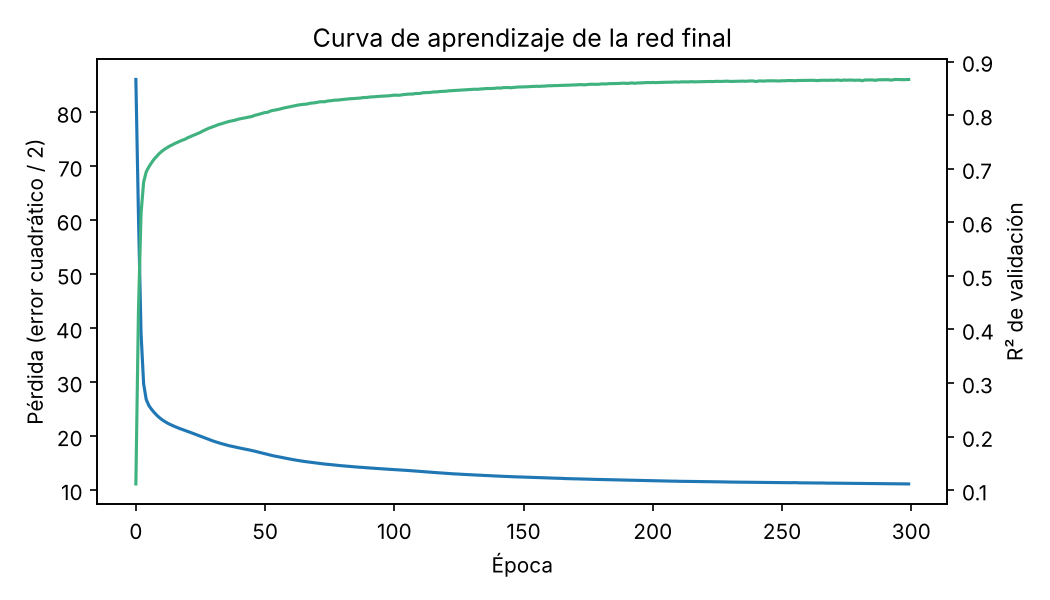
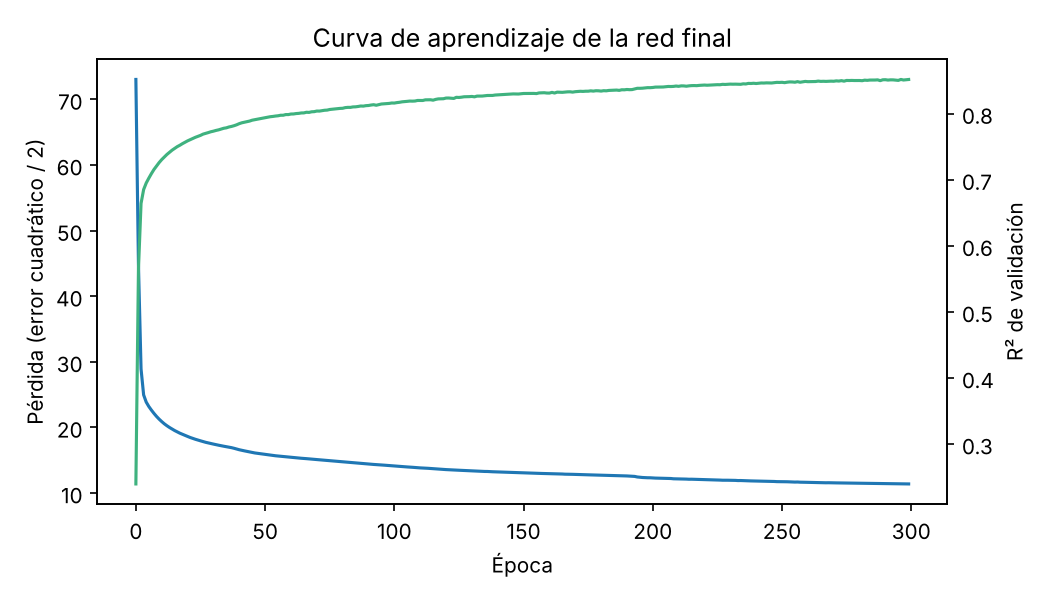
Popup de la encuesta de satisfacción y red reentrenada con los recorridos del 17 de noviembre

diff --git a/static/css/llegada.css b/static/css/llegada.css
@@ -188,3 +188,25 @@ aside > *:nth-child(2) { animation-delay: .06s; } aside > *:nth-child(3) { anima
   color: #e5a23b; border: 1px solid color-mix(in srgb, #e5a23b 60%, transparent); }
 .route-tag.corta { color: #4c8dff; border-color: color-mix(in srgb, #4c8dff 60%, transparent); }
 .route-tag.gap { color: var(--muted, #9aa6ba); border-color: color-mix(in srgb, #9aa6ba 50%, transparent); }
+
+/* Invitación a la encuesta de satisfacción (09_encuesta.js): tarjeta abajo a la derecha, no bloquea la página */
+.survey {
+  position: fixed; z-index: 1100; right: 20px; bottom: 20px; width: min(360px, calc(100vw - 32px));
+  display: flex; gap: 12px; padding: 16px 16px 14px; border-radius: var(--r);
+  background: var(--surface); border: 1px solid color-mix(in srgb, var(--accent) 45%, var(--line));
+  box-shadow: 0 14px 40px rgba(0,0,0,.45); color: var(--text);
+  opacity: 0; transform: translateY(16px); transition: opacity .3s, transform .3s;
+}
+.survey.show { opacity: 1; transform: none; }
+.survey .sv-ico { flex-shrink: 0; width: 36px; height: 36px; border-radius: 50%; display: grid; place-items: center;
+  background: color-mix(in srgb, #ffd166 18%, transparent); color: #ffd166; }
+.survey .sv-ico svg { width: 20px; height: 20px; }
+.survey .sv-body b { display: block; font-size: 15px; margin-bottom: 2px; padding-right: 18px; }
+.survey .sv-body span { display: block; font-size: 13px; color: var(--muted); }
+.survey .sv-actions { display: flex; gap: 8px; margin-top: 12px; flex-wrap: wrap; }
+.survey .sv-actions .btn { min-height: 38px; display: inline-flex; align-items: center; text-decoration: none; }
+.survey .sv-x { position: absolute; top: 6px; right: 8px; width: 32px; height: 32px; border: 0; background: none;
+  color: var(--muted); font-size: 22px; line-height: 1; border-radius: 8px; }
+.survey .sv-x:hover { color: var(--text); background: var(--raise); }
+@media (max-width: 575px) { .survey { right: 16px; left: 16px; bottom: 16px; width: auto; } }
+@media (prefers-reduced-motion: reduce) { .survey { transition: none; } }

diff --git a/static/js/09_encuesta.js b/static/js/09_encuesta.js
@@ -1,0 +1,32 @@
+// OnRoute · Invitación a la encuesta de satisfacción (Microsoft Forms)
+// Aparece abajo, sin tapar la página, unos segundos después de abrirla.
+// "Responder" abre la encuesta en otra pestaña y no vuelve a salir en este navegador.
+// "Ahora no" la esconde por un día.
+const SURVEY_URL = "https://forms.cloud.microsoft/Pages/ResponsePage.aspx?id=ebawul-96E-1Fsa4sxfHgrqs7XJntkNJq-1I-m7foctUN0ZLTlBNWTc0NUpHWk1FTjFINzdNNjBQRi4u";
+const SURVEY_DELAY_MS = 20000;            // espera 20 s para no interrumpir apenas entra
+const SURVEY_SNOOZE_MS = 24 * 3600 * 1000; // "Ahora no" = vuelve a preguntar mañana
+
+(function () {
+  const box = $("survey");
+  if (!box) return;
+  let state = null;
+  try { state = JSON.parse(localStorage.getItem("onrouteSurvey") || "null"); } catch (e) {}
+  if (state && (state.done || Date.now() - state.later < SURVEY_SNOOZE_MS)) return;
+
+  const save = (v) => { try { localStorage.setItem("onrouteSurvey", JSON.stringify(v)); } catch (e) {} };
+  const hide = () => { box.classList.remove("show"); setTimeout(() => box.classList.add("d-none"), 300); };
+
+  $("svOpen").href = SURVEY_URL;
+  $("svOpen").addEventListener("click", () => { save({ done: true }); hide(); });
+  $("svLater").addEventListener("click", () => { save({ later: Date.now() }); hide(); });
+  $("svClose").addEventListener("click", () => { save({ later: Date.now() }); hide(); });
+
+  function show() {
+    // si la bienvenida de la primera visita sigue abierta, se espera a que la cierren
+    const wl = $("welcome");
+    if (wl && !wl.classList.contains("d-none")) { setTimeout(show, 5000); return; }
+    box.classList.remove("d-none");
+    requestAnimationFrame(() => box.classList.add("show"));
+  }
+  setTimeout(show, SURVEY_DELAY_MS);
+})();

diff --git a/templates/index.html b/templates/index.html
@@ -309,6 +309,20 @@
   </div>
 </main>
 
+<!-- Invitación a la encuesta de satisfacción (static/js/09_encuesta.js) -->
+<aside class="survey d-none" id="survey" role="dialog" aria-labelledby="svTitle">
+  <button type="button" class="sv-x" id="svClose" aria-label="Cerrar">&times;</button>
+  <div class="sv-ico" aria-hidden="true"><svg viewBox="0 0 24 24"><path d="M12 3l2.6 5.6 6.1.7-4.5 4.2 1.2 6L12 16.6 6.6 19.5l1.2-6L3.3 9.3l6.1-.7z" fill="currentColor"/></svg></div>
+  <div class="sv-body">
+    <b id="svTitle">¿Nos ayudas con una encuesta?</b>
+    <span>Son 10 preguntas cortas sobre OnRoute, toma menos de 3 minutos y es anónima.</span>
+    <div class="sv-actions">
+      <a class="btn btn-primary btn-sm" id="svOpen" target="_blank" rel="noopener">Responder encuesta</a>
+      <button type="button" class="btn btn-outline-secondary btn-sm" id="svLater">Ahora no</button>
+    </div>
+  </div>
+</aside>
+
 <div class="modal fade" id="appModal" tabindex="-1" aria-hidden="true">
   <div class="modal-dialog modal-dialog-centered modal-sm">
     <div class="modal-content" style="background:var(--surface);border:1px solid var(--line);border-radius:var(--r)">
@@ -332,6 +346,7 @@
 <script src="{{ url_for('static', filename='js/06_lugar.js') }}?v={{ asset_v }}"></script>
 <script src="{{ url_for('static', filename='js/07_llegada.js') }}?v={{ asset_v }}"></script>
 <script src="{{ url_for('static', filename='js/08_inicio.js') }}?v={{ asset_v }}"></script>
+<script src="{{ url_for('static', filename='js/09_encuesta.js') }}?v={{ asset_v }}"></script>
 
 </body>
 </html>
